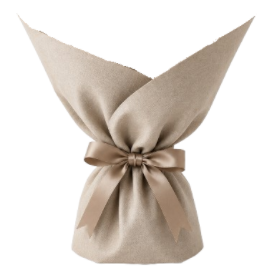
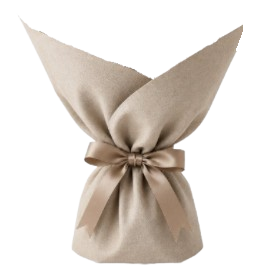
up

diff --git a/js/montar-buque.js b/js/montar-buque.js
@@ -152,8 +152,8 @@ function renderFloresOptions() {
       <div class="col-sm-6">
         <div class="selectable-card p-3 d-flex flex-column justify-content-between" id="flower-card-${flor.id}">
           <div class="d-flex gap-3 align-items-start">
-            <div style="width: 60px; height: 60px; border-radius: 8px; overflow:hidden;" class="flex-shrink-0">
-              <img src="${flor.imagem}" onerror="this.src='https://images.unsplash.com/photo-1516589178581-6cd7833ae3b2?auto=format&fit=crop&w=100&q=80'" style="width:100%;height:100%;object-fit:cover;display:block;">
+            <div class="flower-option-thumb flex-shrink-0">
+              <img src="${flor.imagem}" onerror="this.src='https://images.unsplash.com/photo-1516589178581-6cd7833ae3b2?auto=format&fit=crop&w=100&q=80'">
             </div>
             <div>
               <h4 class="h6 mb-1">${flor.nome}</h4>
@@ -368,24 +368,47 @@ function updateVisualizer() {
   // 3. Render base graphic
   const baseZone = document.getElementById('base-render-zone');
   const kraftOverlay = document.getElementById('kraft-bottom-overlay');
+  const layerMaxHeight = configurador.base && configurador.base.layerMaxHeight ? configurador.base.layerMaxHeight : 190;
+  const layerWidth = configurador.base && configurador.base.layerWidth ? configurador.base.layerWidth : 190;
+  const layerBottomOffset = configurador.base && configurador.base.layerBottomOffset !== undefined ? configurador.base.layerBottomOffset : 24;
+  const backLayerOffsetY = configurador.base && configurador.base.backLayerOffsetY !== undefined ? configurador.base.backLayerOffsetY : 0;
+  const backLayerScale = configurador.base && configurador.base.backLayerScale ? configurador.base.backLayerScale : 1;
+  const frontLayerOffsetY = configurador.base && configurador.base.frontLayerOffsetY !== undefined ? configurador.base.frontLayerOffsetY : 0;
+  const frontLayerScale = configurador.base && configurador.base.frontLayerScale ? configurador.base.frontLayerScale : 1;
 
   if (baseZone) {
     if (configurador.base) {
-      const hasSplit = !!configurador.base.imagemParteDecima;
-      const topSrc = hasSplit ? configurador.base.imagemParteDecima : configurador.base.imagem;
+      const backLayerSrc = configurador.base.imagemParteTras || configurador.base.imagemParteDecima;
+      const frontLayerSrc = configurador.base.imagemParteFrente || configurador.base.imagemParteBaixo;
+      const hasSplit = !!(backLayerSrc && frontLayerSrc);
+      const baseSrc = backLayerSrc || configurador.base.imagem;
 
-      baseZone.innerHTML = `
-        <div class="position-relative d-inline-block">
-          <img src="${topSrc}" onerror="this.src='https://images.unsplash.com/photo-1596436889106-be35e843f974?auto=format&fit=crop&w=200&q=80'" class="img-fluid" style="max-height: 190px;${!hasSplit ? ' border-radius: 12px;' : ''} filter: drop-shadow(0px 10px 10px rgba(0,0,0,0.1));">
-        </div>
-      `;
+      baseZone.style.bottom = layerBottomOffset + 'px';
+      baseZone.style.marginBottom = '0';
+      if (hasSplit) {
+        baseZone.innerHTML = `
+          <div class="bouquet-base-layer-frame" style="width:${layerWidth}px;height:${layerWidth}px;">
+            <img src="${baseSrc}" onerror="this.src='https://images.unsplash.com/photo-1596436889106-be35e843f974?auto=format&fit=crop&w=200&q=80'" class="bouquet-base-layer-img bouquet-base-back-layer" style="transform: translateY(${backLayerOffsetY}px) scale(${backLayerScale}); filter: drop-shadow(0px 10px 10px rgba(0,0,0,0.1));">
+          </div>
+        `;
+      } else {
+        baseZone.innerHTML = `
+          <div class="position-relative d-inline-block">
+            <img src="${baseSrc}" onerror="this.src='https://images.unsplash.com/photo-1596436889106-be35e843f974?auto=format&fit=crop&w=200&q=80'" class="img-fluid bouquet-base-layer-img" style="max-height: ${layerMaxHeight}px; border-radius: 12px; filter: drop-shadow(0px 10px 10px rgba(0,0,0,0.1));">
+          </div>
+        `;
+      }
 
       if (kraftOverlay) {
-        if (hasSplit && configurador.base.imagemParteBaixo) {
-          const bottomPx = configurador.base.overlayBottomOffset !== undefined ? configurador.base.overlayBottomOffset : 24;
+        if (hasSplit) {
+          const bottomPx = configurador.base.overlayBottomOffset !== undefined ? configurador.base.overlayBottomOffset : layerBottomOffset;
           kraftOverlay.style.bottom = bottomPx + 'px';
           kraftOverlay.style.display = 'block';
-          kraftOverlay.innerHTML = `<img src="${configurador.base.imagemParteBaixo}" class="img-fluid" style="max-height: 190px; filter: drop-shadow(0px 10px 10px rgba(0,0,0,0.15));">`;
+          kraftOverlay.innerHTML = `
+            <div class="bouquet-base-layer-frame" style="width:${layerWidth}px;height:${layerWidth}px;">
+              <img src="${frontLayerSrc}" class="bouquet-base-layer-img bouquet-base-front-layer" style="transform: translateY(${frontLayerOffsetY}px) scale(${frontLayerScale}); filter: drop-shadow(0px 10px 10px rgba(0,0,0,0.15));">
+            </div>
+          `;
         } else {
           kraftOverlay.style.display = 'none';
           kraftOverlay.innerHTML = '';
@@ -410,7 +433,8 @@ function updateVisualizer() {
 
   // Vasos: flores atrás (vaso cobre os caules inferiores)
   // Embalagens: flores na frente (papel envolve por fora, flores emergem visíveis)
-  renderZone.style.zIndex = configurador.base.tipo === 'Embalagem' ? '15' : '5';
+  const hasFrontLayer = !!(configurador.base.imagemParteFrente || configurador.base.imagemParteBaixo);
+  renderZone.style.zIndex = configurador.base.tipo === 'Embalagem' || hasFrontLayer ? '15' : '5';
 
   const totalStems = getActiveStemsCount();
   if (totalStems === 0) return;
@@ -420,10 +444,11 @@ function updateVisualizer() {
 
   // Calcula a posição da boca de cada recipiente com base nas dimensões reais renderizadas
   let VASE_OPEN_Y = configurador.base.aberturaY || 180;
+  const containerGraphic = baseZone ? (baseZone.querySelector('.bouquet-base-layer-frame') || baseZone.querySelector('img')) : null;
   const containerImg = baseZone ? baseZone.querySelector('img') : null;
-  if (containerImg) {
-    if (containerImg.complete && containerImg.naturalWidth > 0) {
-      const imgRect             = containerImg.getBoundingClientRect();
+  if (containerGraphic) {
+    if (!containerImg || containerImg.complete && containerImg.naturalWidth > 0) {
+      const imgRect             = containerGraphic.getBoundingClientRect();
       const canvasRect          = renderZone.getBoundingClientRect();
       const imgBottomFromCanvas = Math.round(canvasRect.bottom - imgRect.bottom);
       const imgRenderedHeight   = Math.round(imgRect.height);
@@ -462,13 +487,14 @@ function updateVisualizer() {
 
       const imgSize = flor.tamanho === 'large' ? 155 : flor.tamanho === 'small' ? 110 : 130;
       const insertDepth = configurador.base.tipo === 'Embalagem' ? 18 : 28;
+      const flowerOffsetY = configurador.base.flowerOffsetY || 0;
 
       const flowerEl = document.createElement('div');
       flowerEl.className = 'bouquet-flower-sprout';
       flowerEl.style.cssText = `
         position: absolute;
         left: ${centerX - imgSize / 2}px;
-        bottom: ${VASE_OPEN_Y - insertDepth}px;
+        bottom: ${VASE_OPEN_Y - insertDepth - flowerOffsetY}px;
         width: ${imgSize}px;
         transform: rotate(${rotation + naturalVariation}deg);
         transform-origin: 50% calc(100% - ${insertDepth}px);

diff --git a/css/style.css b/css/style.css
@@ -410,6 +410,26 @@ h1, h2, h3, h4, h5, h6, .display-font {
   pointer-events: none;
 }
 
+.bouquet-base-layer-frame {
+  position: relative;
+  display: inline-block;
+  vertical-align: bottom;
+}
+
+.bouquet-base-layer-frame .bouquet-base-layer-img {
+  position: absolute;
+  top: 0;
+  left: 0;
+  width: 100%;
+  height: auto;
+}
+
+.bouquet-base-layer-img {
+  width: auto;
+  object-fit: contain;
+  object-position: center bottom;
+}
+
 .bouquet-flower-sprout {
   pointer-events: none;
 }
@@ -477,6 +497,22 @@ h1, h2, h3, h4, h5, h6, .display-font {
 .selectable-card.disabled {
   opacity: 0.5;
   cursor: not-allowed;
+}
+
+.flower-option-thumb {
+  width: 62px;
+  height: 72px;
+  border-radius: 8px;
+  overflow: hidden;
+  background: #fff;
+}
+
+.flower-option-thumb img {
+  width: 100%;
+  height: 130%;
+  object-fit: cover;
+  object-position: center 12%;
+  display: block;
 }
 
 .qty-control {

diff --git a/js/main.js b/js/main.js
@@ -154,8 +154,18 @@ const DEFAULT_VASOS = [
     "capacidadeMax": 12,
     "tamanhosPermitidos": ["small", "medium"],
     "imagem": "assets/images/vasos/kraft.jpg",
+    "imagemParteTras": "assets/images/vasos/parte_de_cima_kraft.jpg",
+    "imagemParteFrente": "assets/images/vasos/parte_de_baixo_kraft.jpg.png",
     "aberturaY": 210,
-    "mouthYPercent": 0.547
+    "mouthYPercent": 0.75,
+    "mouthXPercent": 0.5,
+    "layerWidth": 205,
+    "layerBottomOffset": 24,
+    "backLayerOffsetY": -52,
+    "backLayerScale": 1.25,
+    "frontLayerOffsetY": -9,
+    "frontLayerScale": 1.06,
+    "flowerOffsetY": 14
   },
   {
     "id": "v5",
@@ -165,9 +175,18 @@ const DEFAULT_VASOS = [
     "capacidadeMax": 20,
     "tamanhosPermitidos": ["small", "medium", "large"],
     "imagem": "assets/images/vasos/premium.jpg",
+    "imagemParteTras": "assets/images/vasos/parte_de_cima_premium.jpg",
+    "imagemParteFrente": "assets/images/vasos/parte_de_baixo_premium.jpg.png",
     "aberturaY": 210,
-    "mouthYPercent": 0.488,
-    "mouthXPercent": 0.539
+    "mouthYPercent": 0.75,
+    "mouthXPercent": 0.5,
+    "layerWidth": 205,
+    "layerBottomOffset": 24,
+    "backLayerOffsetY": -56,
+    "backLayerScale": 1,
+    "frontLayerOffsetY": -5,
+    "frontLayerScale": 1.025,
+    "flowerOffsetY": 14
   }
 ];
 